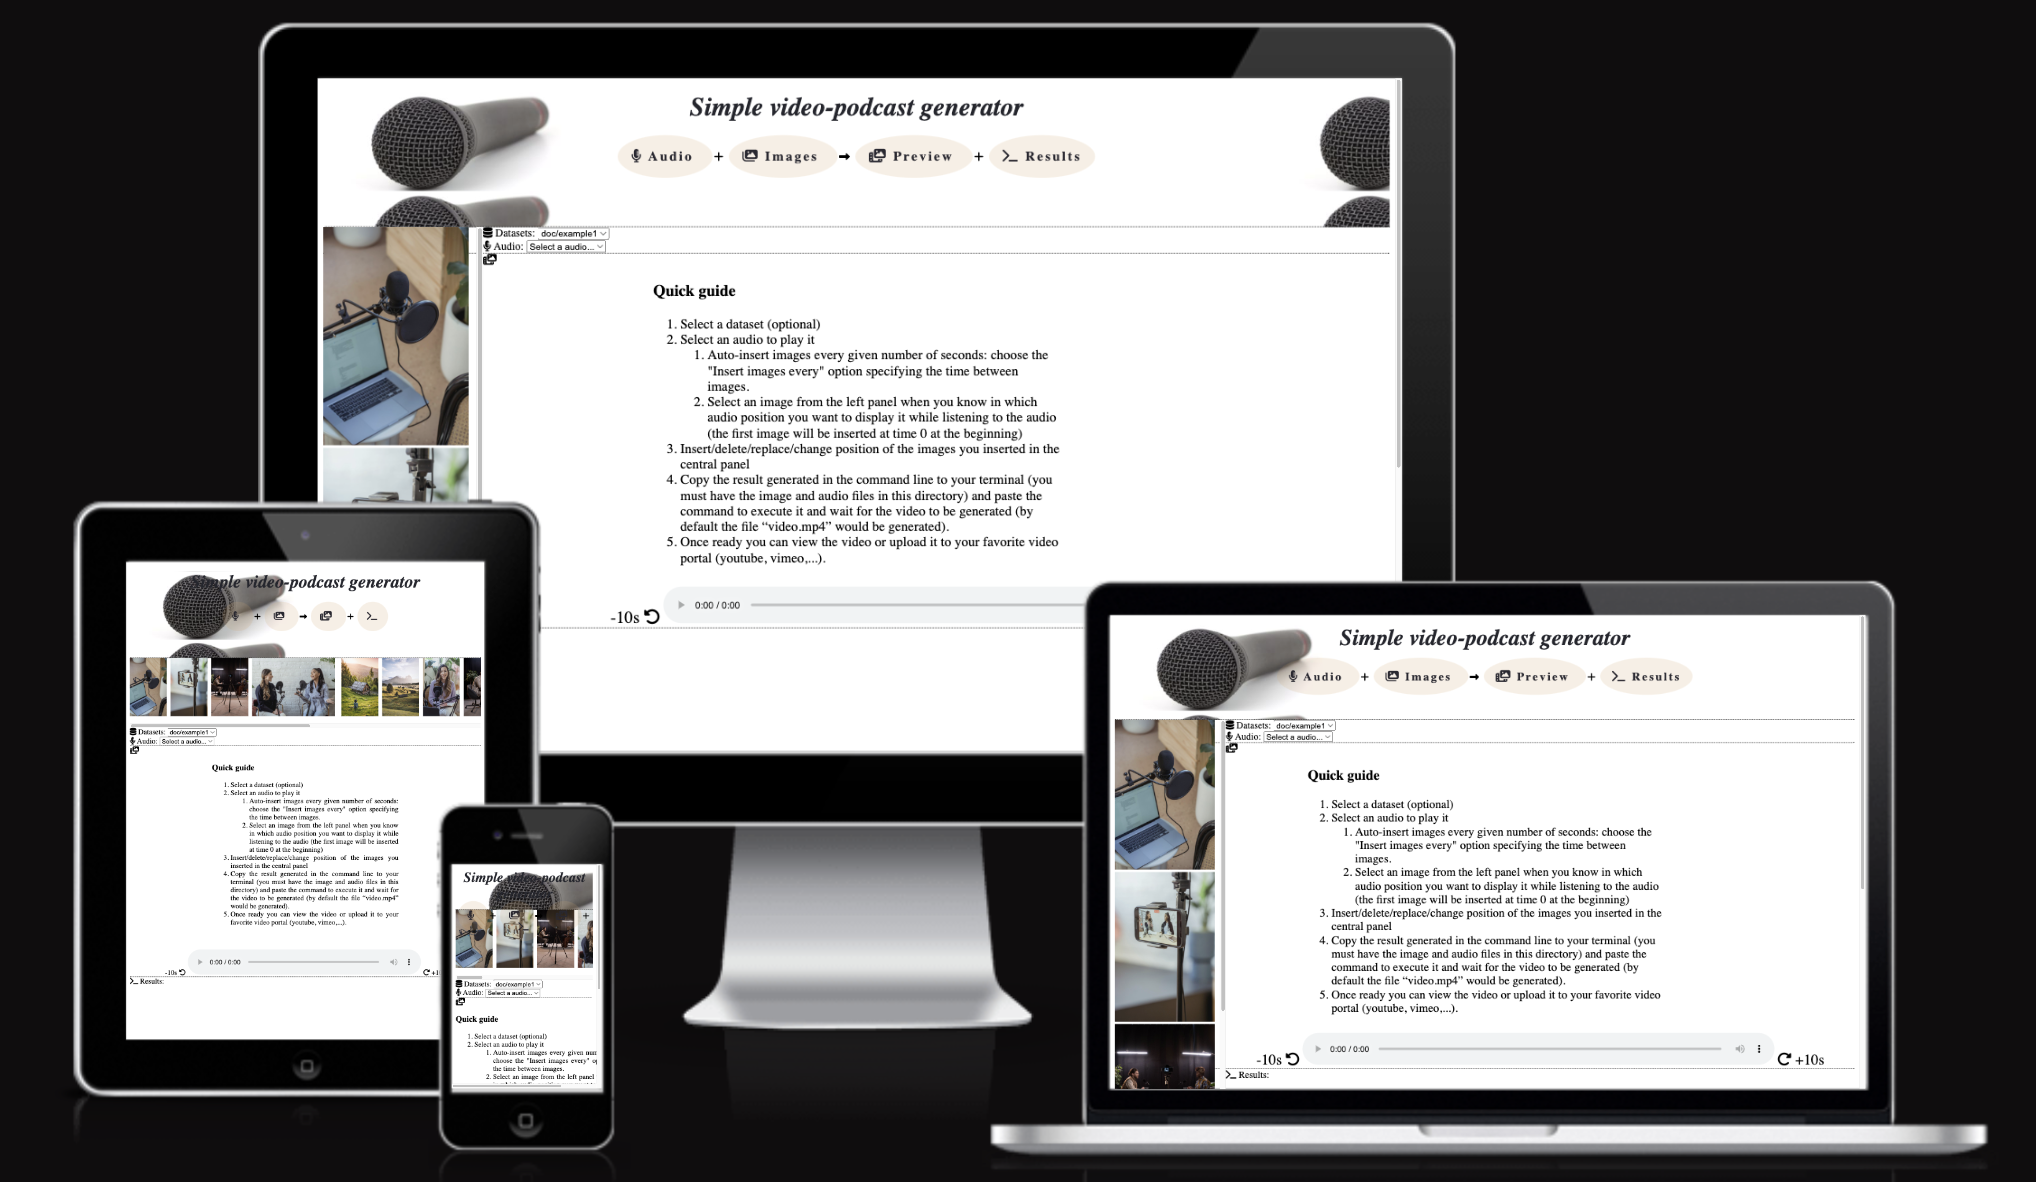
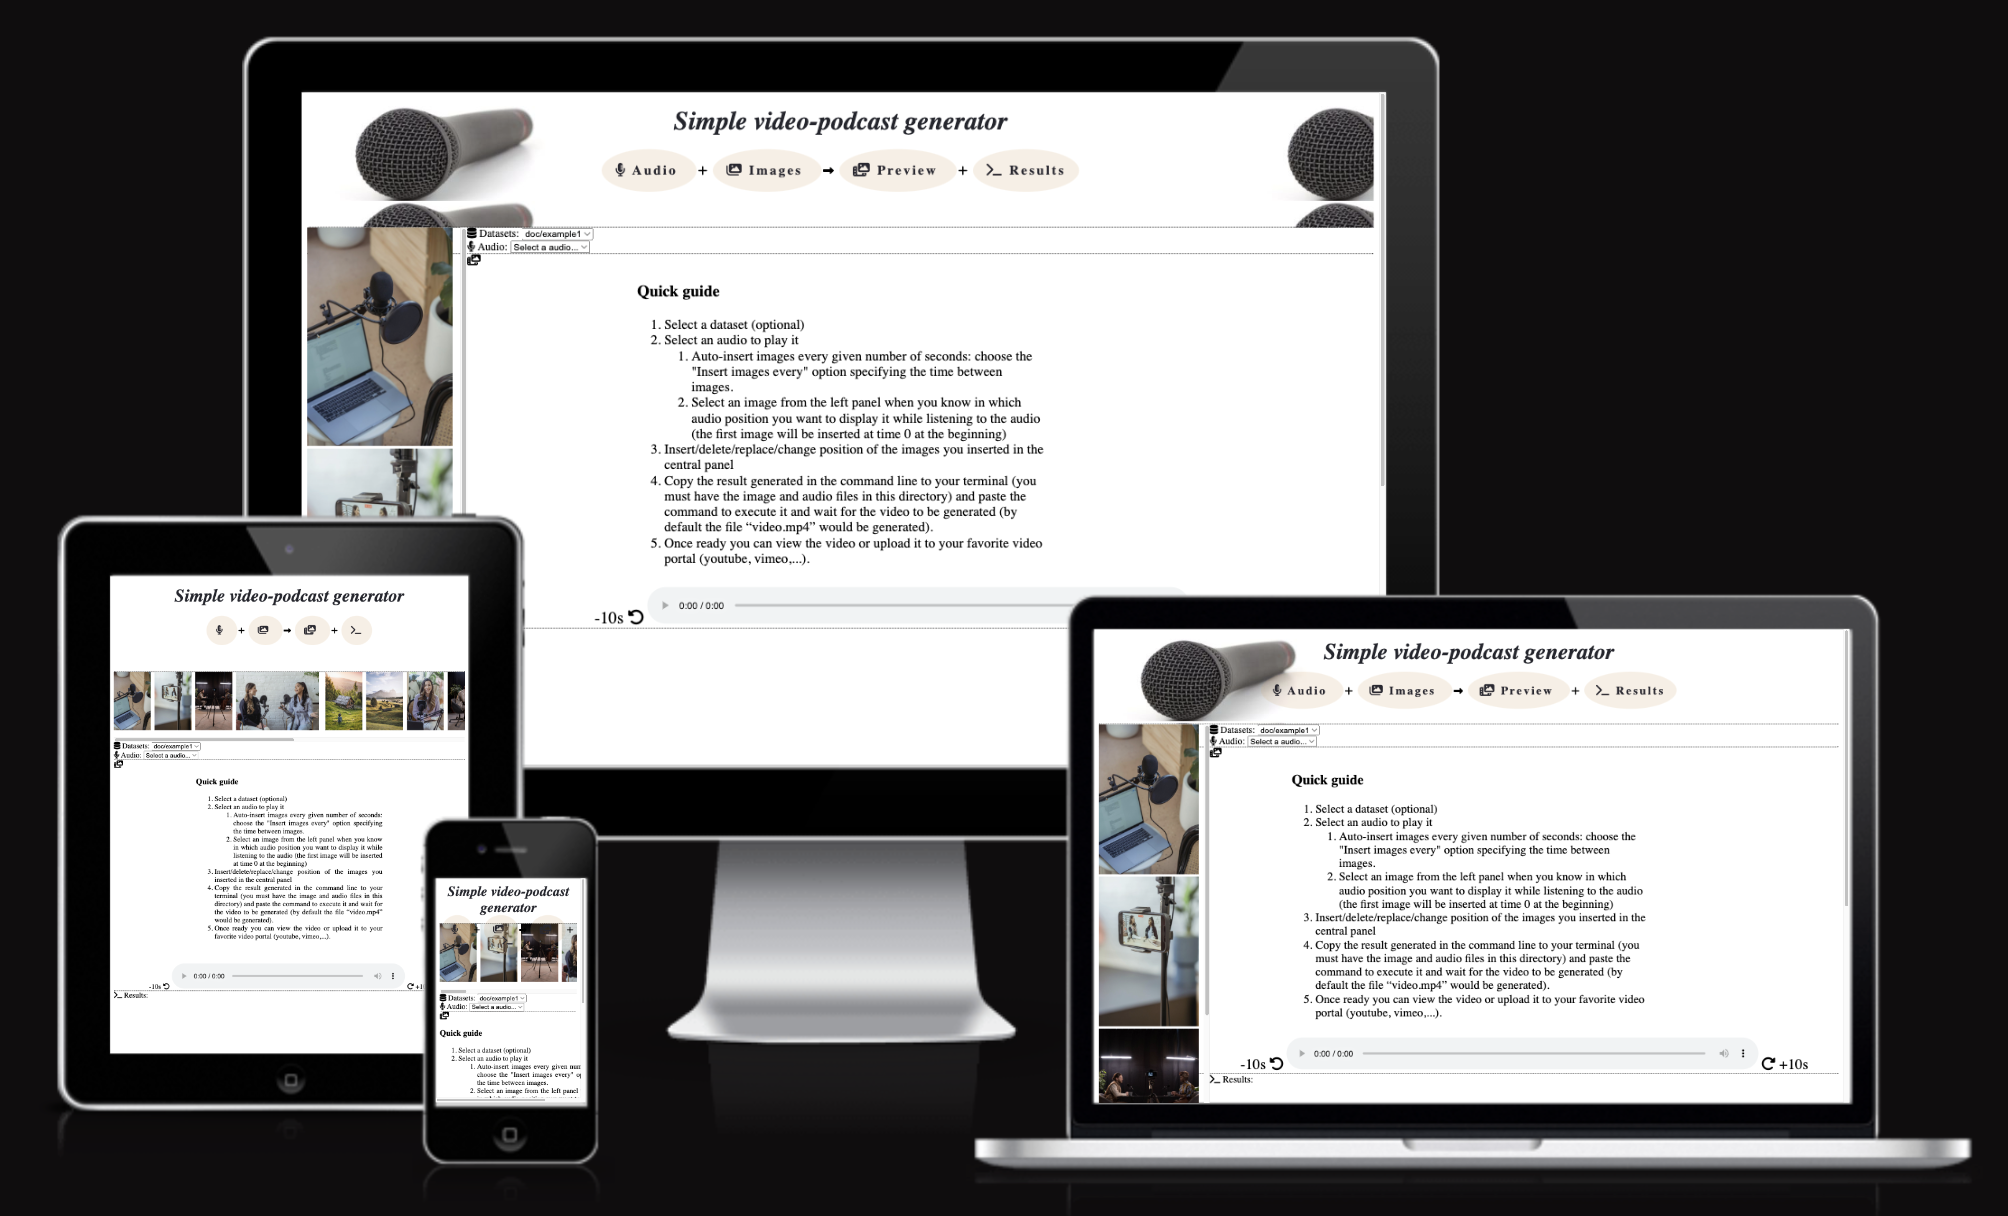
doc: replace screenshot responsive image

Changed region(s): [[0.0309, 0.0, 0.988, 1.0]]

diff --git a/README.md b/README.md
@@ -68,7 +68,7 @@ The project has been completely developed based on a template from the [Code Ins
 - The sample images used are from: https://www.pexels.com/
 - Menu Icons and sections are from: https://fontawesome.com/
 - Much of the knowledge practised here is a result of the exercises and ideas learned in the [Code institute](https://codeinstitute.net) training period and adapted to my needs. 
-- he fonts used are from google font (Lora & Montserrat) as can be seen in the source code: https://fonts.googleapis.com
+- he fonts used are from google font (Lora & Montserrat) as can be seen in the source code: https://fonts.google.com/
 - To the html and css formater was using: https://codebeautify.org/
 - To make corrections with margins and force word wrap through CSS:  https://stackoverflow.com/questions/18891755/force-word-wrap-through-css
 - The audios used in Spanish are from a joint work done with a friend (María Magdalena) during the pandemic for the creation of a podcast. The audios are from two short stories from the book "La vaca que lloraba" by Ajahn Brahm.
